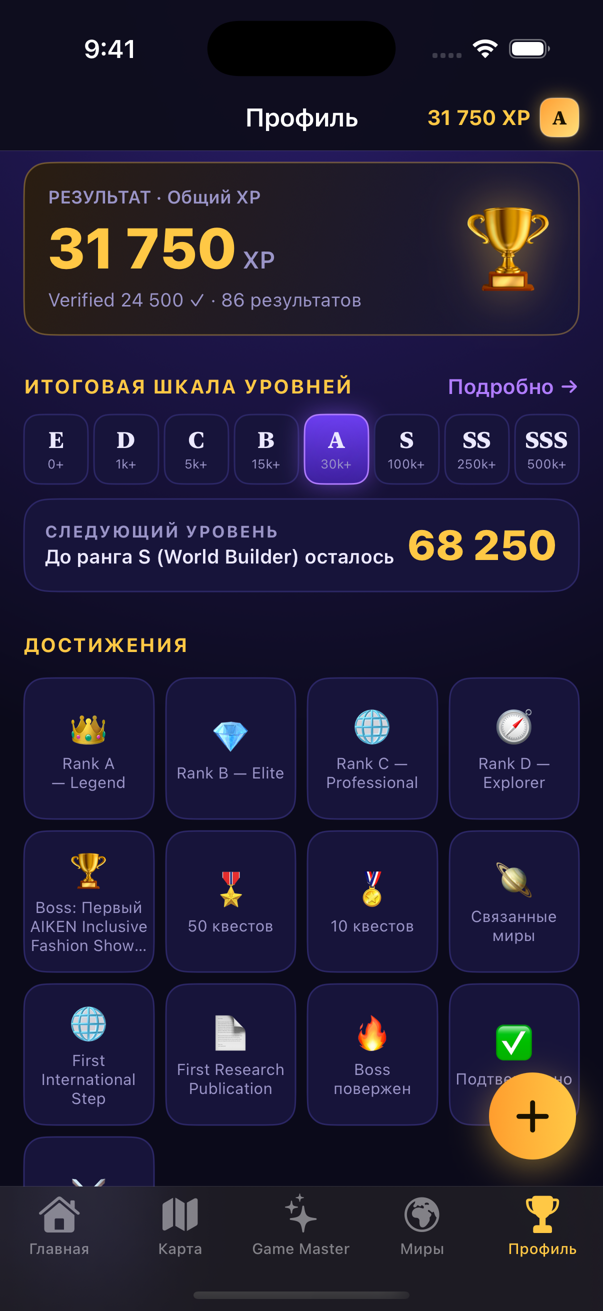
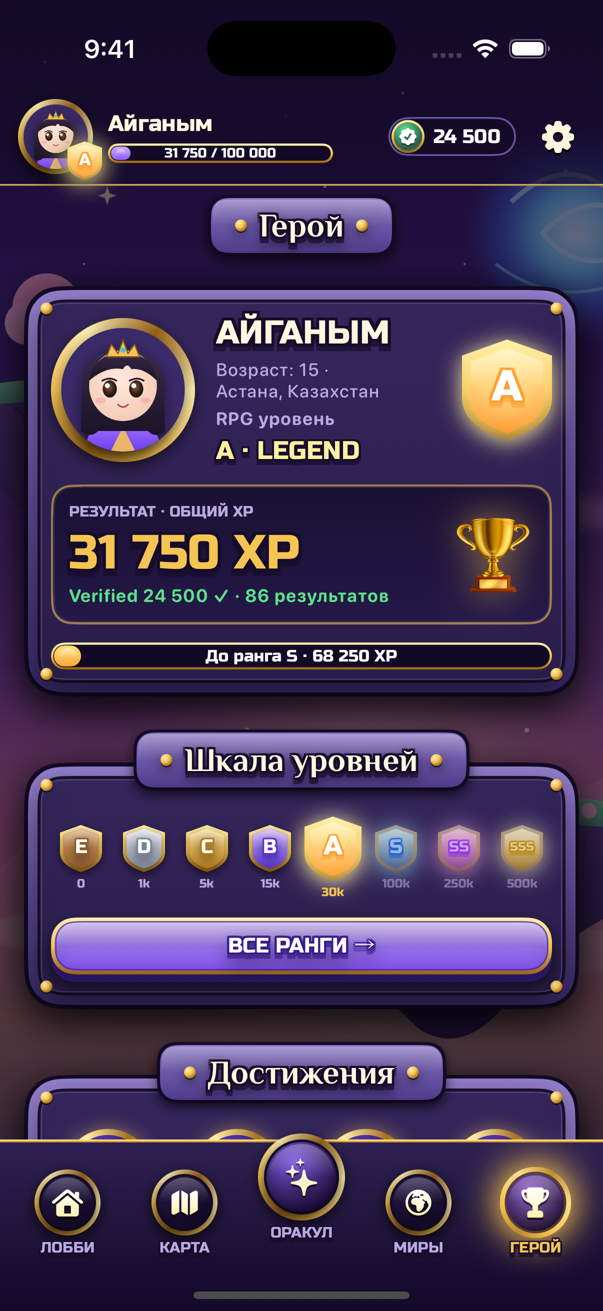
Map: scroll to current quest node; README: new game-style screenshots
Claude-Session: https://claude.ai/code/session_01Y6YFreCCqBcGeEnFN9o3Lt

diff --git a/LifeRPG/Features/MapView.swift b/LifeRPG/Features/MapView.swift
@@ -206,8 +206,8 @@ struct TrailView: View {
                         TrailNode(quest: q, isCurrent: q.id == currentId, locked: store.state.isLocked(q), pulse: pulse)
                     }
                     .buttonStyle(.plain)
-                    .position(pts[i])
                     .id(q.id)
+                    .position(pts[i])
                 }
 
                 // Точка А

diff --git a/README.md b/README.md
@@ -18,18 +18,24 @@ LIFE RPG — мобильное приложение для геймификац
 
 При каждом изменении GitHub Actions собирает приложение на Mac и прогоняет проверки игрового ядра (вкладка **Actions → iOS app**).
 
-| Старт | Главная | Карта 90 дней |
+| Старт | Лобби | Карта-тропа 90 дней |
 |---|---|---|
 | ![](docs/screenshots/0-start.png) | ![](docs/screenshots/demo-home.png) | ![](docs/screenshots/demo-map.png) |
-| **Game Master** | **Миры** | **Профиль** |
+| **Оракул (Game Master)** | **Миры** | **Герой** |
 | ![](docs/screenshots/demo-gm.png) | ![](docs/screenshots/demo-worlds.png) | ![](docs/screenshots/demo-profile.png) |
+| **Квест** | **Настройки** | **Новый результат** |
+| ![](docs/screenshots/panel-quest.png) | ![](docs/screenshots/panel-settings.png) | ![](docs/screenshots/panel-add.png) |
+
+Дизайн — игровой: сумеречная фэнтези-сцена, свой маскот (снежный барс-рыцарь), медальоны в золотых кольцах, «3D»-кнопки, резные каменные панели, карта-тропа с узлами-уровнями и боссами. Шрифты Russo One и Philosopher (SIL OFL, с кириллицей) лежат в `LifeRPG/Fonts`, исходники иллюстраций — в `art/` (SVG).
 
 ```
 LifeRPG.xcodeproj        проект Xcode — откройте его и нажмите Run
 LifeRPG/App              точка входа приложения
 LifeRPG/Core             модели, игровое ядро, AI Game Master, демо, хранилище, тема
 LifeRPG/Features         экраны: онбординг, главная (Kids/SEN), карта, квест, Game Master, миры, профиль, ранги
-LifeRPG/Assets.xcassets  иконка приложения
+LifeRPG/Assets.xcassets  иконка, фон-лобби, герой, аватары
+LifeRPG/Fonts            игровые шрифты (OFL)
+art/                     исходники иллюстраций (SVG)
 Tests/CoreCheck          проверки игрового ядра
 scripts/gen_xcodeproj.py пересобрать проект после добавления новых .swift файлов
 ```
